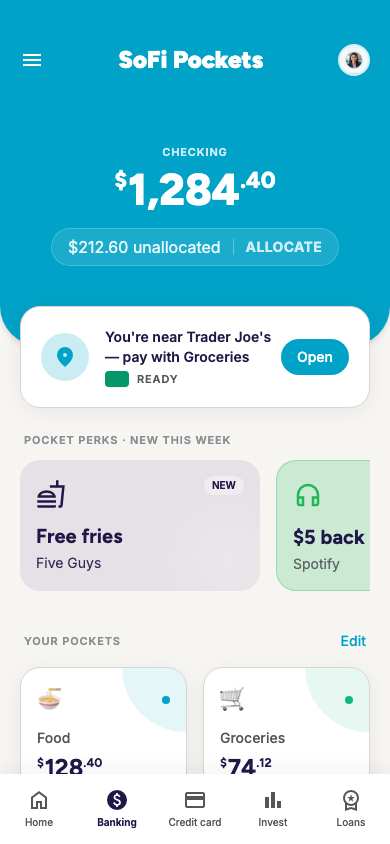
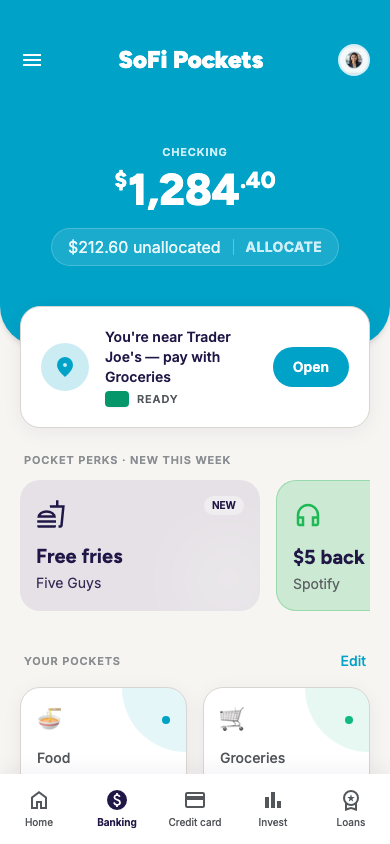
Unify progress tracks, primary buttons, and top-bar treatment
Continuing the consistency pass across shared components.

Progress tracks came in six variants: 1.5px and 2px tall, w-full / w-48 /
max-w-xs / no width at all, five different track colours, and several missing
overflow-hidden so the fill's rounded end poked outside the track. That is why
screen 02's bar was short and centred while 03's ran edge to edge. Geometry is
now one value; the colour is left per screen because a track on a cyan header
needs different contrast than one on a white card.

Primary buttons came in sixteen class combinations — padding from py-2 to py-4,
four type sizes, three weights, and some carrying two font-family tokens at once.
Now two variants: a full-width CTA and an inline pill. Three CTAs were styled
through bg-surface-tint or bg-primary-container, which both resolve to the same
#00A2C7 as bg-primary, so they looked like primary buttons while escaping every
primary-button rule; they now use the token they were imitating.

Top-bar icon buttons had five treatments including three with no 44px hit area.
Masked card numbers showed all sixteen digits on one screen and "•••• 4417" on
the others. Screen 03 also carried <header class="hidden md:flex">, invisible at
every mobile width, while building its real top bar inline further down; removed.

Screen 01's suggestion was clamped to two lines, and the canonical pill is wider
than the one that screen shipped, so "pay with Groceries" truncated to "pay
[…]

diff --git a/docs/screens/01-pockets-home.html b/docs/screens/01-pockets-home.html
@@ -236,14 +236,14 @@
 <span class="material-symbols-outlined text-2xl" style="font-variation-settings: 'FILL' 1;">location_on</span>
 </div>
 <div class="flex flex-col">
-<span class="font-label-md text-label-md text-on-surface font-semibold line-clamp-2 pr-2">You're near Trader Joe's — pay with Groceries</span>
+<span class="font-label-md text-label-md text-on-surface font-semibold line-clamp-3 pr-2">You're near Trader Joe's — pay with Groceries</span>
 <div class="flex items-center gap-2 mt-1">
 <div class="w-6 h-4 bg-emerald-600 rounded-sm shadow-sm"></div>
 <span class="font-eyebrow text-eyebrow text-on-surface-variant">READY</span>
 </div>
 </div>
 </div>
-<button class="shrink-0 bg-primary text-on-primary font-label-md text-label-md rounded-full px-4 py-2 hover:bg-surface-tint transition-colors whitespace-nowrap">
+<button class="bg-primary hover:bg-surface-tint shrink-0 text-on-primary transition-colors whitespace-nowrap px-5 py-2.5 rounded-full font-label-md text-label-md font-semibold">
                     Open
                 </button>
 </div>
@@ -296,7 +296,7 @@
 <div class="font-label-md text-label-md text-on-surface-variant font-medium mb-1">Food</div>
 <div class="font-headline-md text-headline-md text-on-surface flex items-start mb-3"><span class="money-sym">$</span>128<span class="money-cents">.40</span></div>
 <div class="mt-auto">
-<div class="w-full bg-surface-container h-1.5 rounded-full overflow-hidden mb-1.5">
+<div class="w-full h-1.5 rounded-full overflow-hidden bg-surface-container mb-1.5">
 <div class="bg-primary-container h-full rounded-full" style="width: 42%;"></div>
 </div>
 <div class="font-body-sm text-[12px] text-outline">$128 left of $300</div>
@@ -312,7 +312,7 @@
 <div class="font-label-md text-label-md text-on-surface-variant font-medium mb-1">Groceries</div>
 <div class="font-headline-md text-headline-md text-on-surface flex items-start mb-3"><span class="money-sym">$</span>74<span class="money-cents">.12</span></div>
 <div class="mt-auto">
-<div class="w-full bg-surface-container h-1.5 rounded-full overflow-hidden mb-1.5">
+<div class="w-full h-1.5 rounded-full overflow-hidden bg-surface-container mb-1.5">
 <div class="bg-emerald-500 h-full rounded-full" style="width: 49%;"></div>
 </div>
 <div class="font-body-sm text-[12px] text-outline">$74 left of $150</div>
@@ -352,7 +352,7 @@
 <div class="font-label-md text-label-md text-on-surface-variant font-medium mb-1">Books</div>
 <div class="font-headline-md text-headline-md text-on-surface flex items-start mb-3"><span class="money-sym">$</span>210</div>
 <div class="mt-auto">
-<div class="w-full bg-surface-container h-1.5 rounded-full overflow-hidden mb-1.5">
+<div class="w-full h-1.5 rounded-full overflow-hidden bg-surface-container mb-1.5">
 <div class="bg-amber-400 h-full rounded-full" style="width: 52%;"></div>
 </div>
 <div class="font-body-sm text-[12px] text-outline">$210 left of $400</div>
@@ -371,7 +371,7 @@
 </div>
 <div class="font-headline-md text-headline-md text-error flex items-start mb-3"><span class="money-sym">$</span>18<span class="money-cents">.50</span></div>
 <div class="mt-auto">
-<div class="w-full bg-surface-container h-1.5 rounded-full overflow-hidden mb-1.5">
+<div class="w-full h-1.5 rounded-full overflow-hidden bg-surface-container mb-1.5">
 <div class="bg-error h-full rounded-full" style="width: 15%;"></div>
 </div>
 <div class="font-eyebrow text-[10px] text-error font-semibold">Low balance</div>

diff --git a/docs/screens/15-pockets-home-alt.html b/docs/screens/15-pockets-home-alt.html
@@ -235,7 +235,7 @@
 </div>
 </div>
 <div class="flex items-center gap-2">
-<button class="bg-primary text-on-primary rounded-full px-3 py-1.5 font-body-sm text-body-sm font-semibold whitespace-nowrap active:scale-95 transition-transform text-xs">
+<button class="active:scale-95 bg-primary text-on-primary transition-transform whitespace-nowrap px-5 py-2.5 rounded-full font-label-md text-label-md font-semibold">
                     Open Wallet
                 </button>
 <button class="text-outline hover:text-on-surface p-1 rounded-full">
@@ -295,7 +295,7 @@
 <div class="space-y-1">
 <h4 class="font-body-sm text-body-sm text-on-surface font-semibold">Food</h4>
 <div class="font-data-display text-data-display text-on-surface text-xl"><span class="money-sym">$</span>128<span class="money-cents">.40</span></div>
-<div class="w-full bg-surface-variant h-1.5 rounded-full overflow-hidden mt-2">
+<div class="w-full h-1.5 rounded-full overflow-hidden bg-surface-variant mt-2">
 <div class="bg-pocket-cyan h-full rounded-full" style="width: 42%;"></div>
 </div>
 <p class="font-body-sm text-[12px] text-outline mt-1">$128 left of $300</p>
@@ -309,7 +309,7 @@
 <div class="space-y-1">
 <h4 class="font-body-sm text-body-sm text-on-surface font-semibold">Groceries</h4>
 <div class="font-data-display text-data-display text-on-surface text-xl"><span class="money-sym">$</span>74<span class="money-cents">.12</span></div>
-<div class="w-full bg-surface-variant h-1.5 rounded-full overflow-hidden mt-2">
+<div class="w-full h-1.5 rounded-full overflow-hidden bg-surface-variant mt-2">
 <div class="bg-pocket-green h-full rounded-full" style="width: 49%;"></div>
 </div>
 <p class="font-body-sm text-[12px] text-outline mt-1">$74 left of $150</p>
@@ -342,7 +342,7 @@
 <div class="space-y-1">
 <h4 class="font-body-sm text-body-sm text-on-surface font-semibold">Books</h4>
 <div class="font-data-display text-data-display text-on-surface text-xl"><span class="money-sym">$</span>210</div>
-<div class="w-full bg-surface-variant h-1.5 rounded-full overflow-hidden mt-2">
+<div class="w-full h-1.5 rounded-full overflow-hidden bg-surface-variant mt-2">
 <div class="bg-pocket-buttercup h-full rounded-full" style="width: 52%;"></div>
 </div>
 <p class="font-body-sm text-[12px] text-outline mt-1">$210 left of $400</p>
@@ -357,7 +357,7 @@
 <div class="space-y-1">
 <h4 class="font-body-sm text-body-sm text-on-surface font-semibold">Transit</h4>
 <div class="font-data-display text-data-display text-on-surface text-xl"><span class="money-sym">$</span>18<span class="money-cents">.50</span></div>
-<div class="w-full bg-surface-variant h-1.5 rounded-full overflow-hidden mt-2">
+<div class="w-full h-1.5 rounded-full overflow-hidden bg-surface-variant mt-2">
 <div class="bg-amber-500 h-full rounded-full" style="width: 15%;"></div>
 </div>
 <p class="font-body-sm text-body-sm text-error text-xs mt-1 font-medium">Low balance</p>

diff --git a/docs/screens/03-transit-low-balance.html b/docs/screens/03-transit-low-balance.html
@@ -180,15 +180,6 @@
 </head>
 <body class="bg-surface text-on-surface font-body-md antialiased pb-24 md:pb-0 hide-scrollbar overflow-x-hidden w-full h-full min-h-screen">
 <!-- Top Navigation (Web) -->
-<header class="hidden md:flex bg-primary text-on-primary font-headline-md text-headline-md docked full-width top-0 h-header-height flat no shadows transition-opacity duration-200 justify-between items-center px-container-margin w-full fixed z-50">
-<div class="flex items-center gap-inline-gap hover:opacity-80 cursor-pointer">
-<span class="material-symbols-outlined text-[28px]" data-icon="menu">menu</span>
-</div>
-<div class="font-headline-md text-headline-md font-black text-on-primary tracking-tight">SoFi Pockets</div>
-<div class="w-10 h-10 rounded-full bg-primary-fixed flex items-center justify-center overflow-hidden hover:opacity-80 cursor-pointer">
-<span class="material-symbols-outlined text-primary" data-icon="person">person</span>
-</div>
-</header>
 <main class="md:pt-header-height md:max-w-3xl mx-auto w-full pb-20">
 <!-- Header Block (Mobile Sticky) -->
 <div class="bg-tertiary-fixed text-on-tertiary-fixed pt-12 pb-6 px-container-margin rounded-b-[32px] md:rounded-3xl md:mt-6 shadow-sm sticky top-0 z-40 md:relative md:top-auto">
@@ -206,8 +197,8 @@
 <div class="font-body-md text-body-md opacity-80">of $80 goal</div>
 </div>
 <!-- Progress Bar -->
-<div class="w-full bg-surface-container-lowest/40 rounded-full h-1.5 mb-2 overflow-hidden">
-<div class="bg-surface-container-lowest h-1.5 rounded-full" style="width: 23%"></div>
+<div class="w-full h-1.5 rounded-full overflow-hidden bg-surface-container-lowest/40 mb-2">
+<div class="w-full h-1.5 rounded-full overflow-hidden bg-surface-container-lowest" style="width: 23%"></div>
 </div>
 </div>
 <!-- Warning Banner -->
@@ -220,7 +211,7 @@
 <p class="font-body-md text-sm text-[#F57F17] mt-1 leading-snug">Cards decline when a pocket is empty — pockets never borrow from each other.</p>
 </div>
 </div>
-<button class="bg-primary text-on-primary font-label-md text-label-md px-6 py-2 rounded-full whitespace-nowrap hover:opacity-90 transition-opacity w-full sm:w-auto shadow-sm">
+<button class="bg-primary hover:opacity-90 shadow-sm sm:w-auto text-on-primary transition-opacity w-full whitespace-nowrap py-4 rounded-full font-label-md text-label-md font-bold">
                     Add money
                 </button>
 </div>

diff --git a/docs/screens/12-move-money.html b/docs/screens/12-move-money.html
@@ -274,7 +274,7 @@
 <div class="flex gap-2 mt-6">
 <button class="px-4 py-2 rounded-full border border-outline-variant text-on-surface font-label-md text-label-md hover:bg-surface-container-highest transition-colors">$10</button>
 <button class="px-4 py-2 rounded-full border border-outline-variant text-on-surface font-label-md text-label-md hover:bg-surface-container-highest transition-colors">$20</button>
-<button class="px-4 py-2 rounded-full bg-primary text-on-primary border border-transparent font-label-md text-label-md shadow-sm">$40</button>
+<button class="bg-primary border border-transparent shadow-sm text-on-primary px-5 py-2.5 rounded-full font-label-md text-label-md font-semibold">$40</button>
 <button class="px-4 py-2 rounded-full border border-outline-variant text-on-surface font-label-md text-label-md hover:bg-surface-container-highest transition-colors">All</button>
 </div>
 </div>
@@ -301,7 +301,7 @@
 </div>
 <!-- Primary Action -->
 <div class="mt-auto pt-4 border-t border-outline-variant bg-surface-container-lowest sticky bottom-0">
-<button class="w-full py-4 rounded-full bg-primary text-on-primary font-headline-md text-headline-md font-bold shadow-sm hover:opacity-90 transition-opacity flex justify-center items-center gap-2">
+<button class="bg-primary flex gap-2 hover:opacity-90 items-center justify-center shadow-sm text-on-primary transition-opacity w-full py-4 rounded-full font-label-md text-label-md font-bold">
 <span>Move</span>
 <span class="font-numeric-table">$40</span>
 </button>

diff --git a/docs/screens/05-rent-shared-pocket.html b/docs/screens/05-rent-shared-pocket.html
@@ -247,7 +247,7 @@
 <h2 class="font-balance-display text-balance-display mb-1"><span class="money-sym">$</span>1,650</h2>
 <p class="text-primary-fixed-dim font-body-md text-body-md opacity-80">of $1,800 due Aug 1</p>
 <!-- Progress Bar -->
-<div class="w-full max-w-xs bg-surface-container-highest h-2 rounded-full mt-4 overflow-hidden">
+<div class="w-full h-1.5 rounded-full overflow-hidden bg-surface-container-highest mt-4">
 <div class="bg-primary-container h-full rounded-full w-[92%] transition-all duration-1000 ease-out"></div>
 </div>
 <!-- Avatar Stack -->
@@ -271,7 +271,7 @@
 <button class="flex-1 bg-surface-container-lowest text-on-surface-variant font-label-md text-label-md font-bold py-3 px-4 rounded-full border border-outline-variant shadow-sm hover:bg-surface-container-low transition-colors">
                 Add my share
             </button>
-<button class="flex-1 bg-primary text-on-primary font-label-md text-label-md font-bold py-3 px-4 rounded-full shadow-md hover:bg-surface-tint transition-colors">
+<button class="bg-primary flex-1 hover:bg-surface-tint shadow-md text-on-primary transition-colors px-5 py-2.5 rounded-full font-label-md text-label-md font-semibold">
                 Pay rent
             </button>
 </div>

diff --git a/docs/screens/11-pocket-perks.html b/docs/screens/11-pocket-perks.html
@@ -284,7 +284,7 @@
                                 </span>
 <span class="font-eyebrow text-eyebrow text-error">3 days left</span>
 </div>
-<button class="bg-surface-tint text-on-primary font-label-md text-label-md py-2 px-5 rounded-full hover:bg-primary transition-colors">
+<button class="bg-primary text-on-primary hover:bg-primary transition-colors px-5 py-2.5 rounded-full font-label-md text-label-md font-semibold">
                                 Activate
                             </button>
 </div>
@@ -307,7 +307,7 @@
                                 </span>
 <span class="font-eyebrow text-eyebrow text-tertiary">Ends Aug 3</span>
 </div>
-<button class="bg-surface-tint text-on-primary font-label-md text-label-md py-2 px-5 rounded-full hover:bg-primary transition-colors">
+<button class="bg-primary text-on-primary hover:bg-primary transition-colors px-5 py-2.5 rounded-full font-label-md text-label-md font-semibold">
                                 Activate
                             </button>
 </div>

diff --git a/docs/screens/06-invite-friends.html b/docs/screens/06-invite-friends.html
@@ -280,7 +280,7 @@
 </main>
 <!-- Sticky Bottom Action -->
 <div class="fixed bottom-0 left-0 right-0 p-container-margin bg-gradient-to-t from-surface via-surface/90 to-transparent z-50">
-<button class="w-full bg-primary text-on-primary font-label-md text-[16px] font-bold py-4 rounded-full shadow-lg hover:opacity-90 active:scale-[0.98] transition-all flex items-center justify-center gap-2">
+<button class="active:scale-[0.98] bg-primary flex gap-2 hover:opacity-90 items-center justify-center shadow-lg text-on-primary transition-all w-full py-4 rounded-full font-label-md text-label-md font-bold">
             Send invites
             <span class="material-symbols-outlined text-xl" style="font-variation-settings: 'FILL' 1;">send</span>
 </button>

diff --git a/docs/screens/07-invite-received.html b/docs/screens/07-invite-received.html
@@ -279,7 +279,7 @@
         </p>
 <!-- Fixed Action Bar -->
 <div class="w-full flex flex-col gap-3 mt-auto sticky bottom-0 pt-4 pb-8 bg-surface">
-<button class="w-full bg-primary text-on-primary font-label-md text-label-md py-4 rounded-full font-bold shadow-md hover:opacity-90 transition-opacity flex justify-center items-center gap-2">
+<button class="bg-primary flex gap-2 hover:opacity-90 items-center justify-center shadow-md text-on-primary transition-opacity w-full py-4 rounded-full font-label-md text-label-md font-bold">
                 Join and add $600
             </button>
 <button class="w-full bg-transparent text-primary font-label-md text-label-md py-4 rounded-full font-medium hover:bg-surface-variant transition-colors">

diff --git a/docs/screens/16-food-detail-alt.html b/docs/screens/16-food-detail-alt.html
@@ -247,8 +247,8 @@
 <div class="font-balance-display text-balance-display text-on-primary mb-1"><span class="money-sym">$</span>128<span class="money-cents">.40</span></div>
 <p class="font-body-md text-body-md text-on-primary opacity-80 mb-4">of $300 this month</p>
 <!-- Progress Bar -->
-<div class="w-full bg-primary-fixed-dim/30 rounded-full h-1.5 mb-6">
-<div class="bg-on-primary h-1.5 rounded-full" style="width: 42%;"></div>
+<div class="w-full h-1.5 rounded-full overflow-hidden bg-primary-fixed-dim/30 mb-6">
+<div class="w-full h-1.5 rounded-full overflow-hidden bg-on-primary" style="width: 42%;"></div>
 </div>
 <!-- Action Buttons -->
 <div class="flex gap-inline-gap justify-center">

diff --git a/docs/screens/04-create-a-pocket.html b/docs/screens/04-create-a-pocket.html
@@ -321,7 +321,7 @@
 <!-- Sticky Bottom Action -->
 <div class="fixed bottom-0 left-0 w-full p-container-margin bg-gradient-to-t from-surface via-surface to-transparent pt-12 pb-8 z-50">
 <div class="max-w-2xl mx-auto">
-<button class="w-full py-4 rounded-full bg-primary text-on-primary font-label-md text-label-md font-bold shadow-lg hover:bg-opacity-90 transition-opacity flex items-center justify-center gap-2">
+<button class="bg-primary flex gap-2 hover:bg-opacity-90 items-center justify-center shadow-lg text-on-primary transition-opacity w-full py-4 rounded-full font-label-md text-label-md font-bold">
                 Create pocket
             </button>
 </div>

diff --git a/docs/screens/09-lock-screen-notif.html b/docs/screens/09-lock-screen-notif.html
@@ -178,7 +178,7 @@
                         </p>
 </div>
 <div class="flex flex-col gap-2">
-<button class="w-full bg-primary hover:bg-surface-tint text-on-primary font-label-md text-label-md py-3 rounded-full transition-colors flex items-center justify-center">
+<button class="bg-primary flex hover:bg-surface-tint items-center justify-center text-on-primary transition-colors w-full py-4 rounded-full font-label-md text-label-md font-bold">
 <span class="material-symbols-outlined mr-2 text-[18px]">wallet</span>
                             Open in Wallet
                         </button>

diff --git a/docs/screens/14-pockets-onboarding.html b/docs/screens/14-pockets-onboarding.html
@@ -207,7 +207,7 @@
 </div>
 <!-- Actions -->
 <div class="flex flex-col gap-4 mt-auto">
-<button class="w-full bg-primary text-on-primary font-label-md text-label-md font-bold py-4 rounded-full shadow-md active:scale-95 transition-transform">
+<button class="active:scale-95 bg-primary shadow-md text-on-primary transition-transform w-full py-4 rounded-full font-label-md text-label-md font-bold">
                     Set up my pockets
                 </button>
 <button class="w-full text-primary font-label-md text-label-md font-medium py-3 active:opacity-70 transition-opacity">
